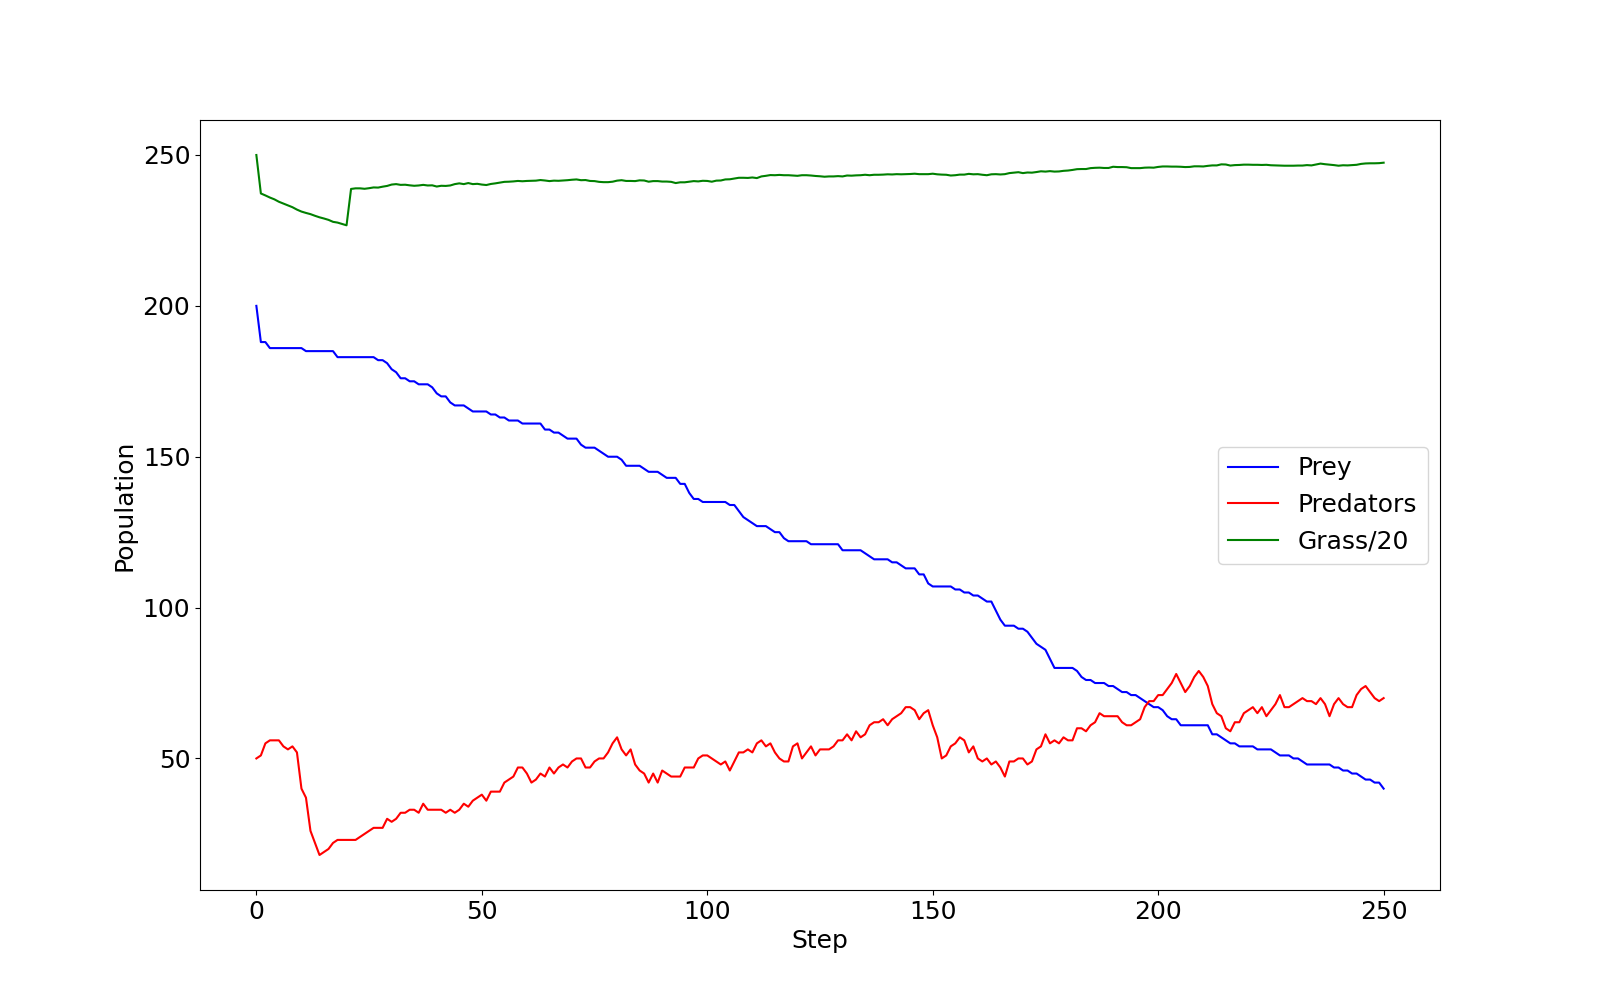
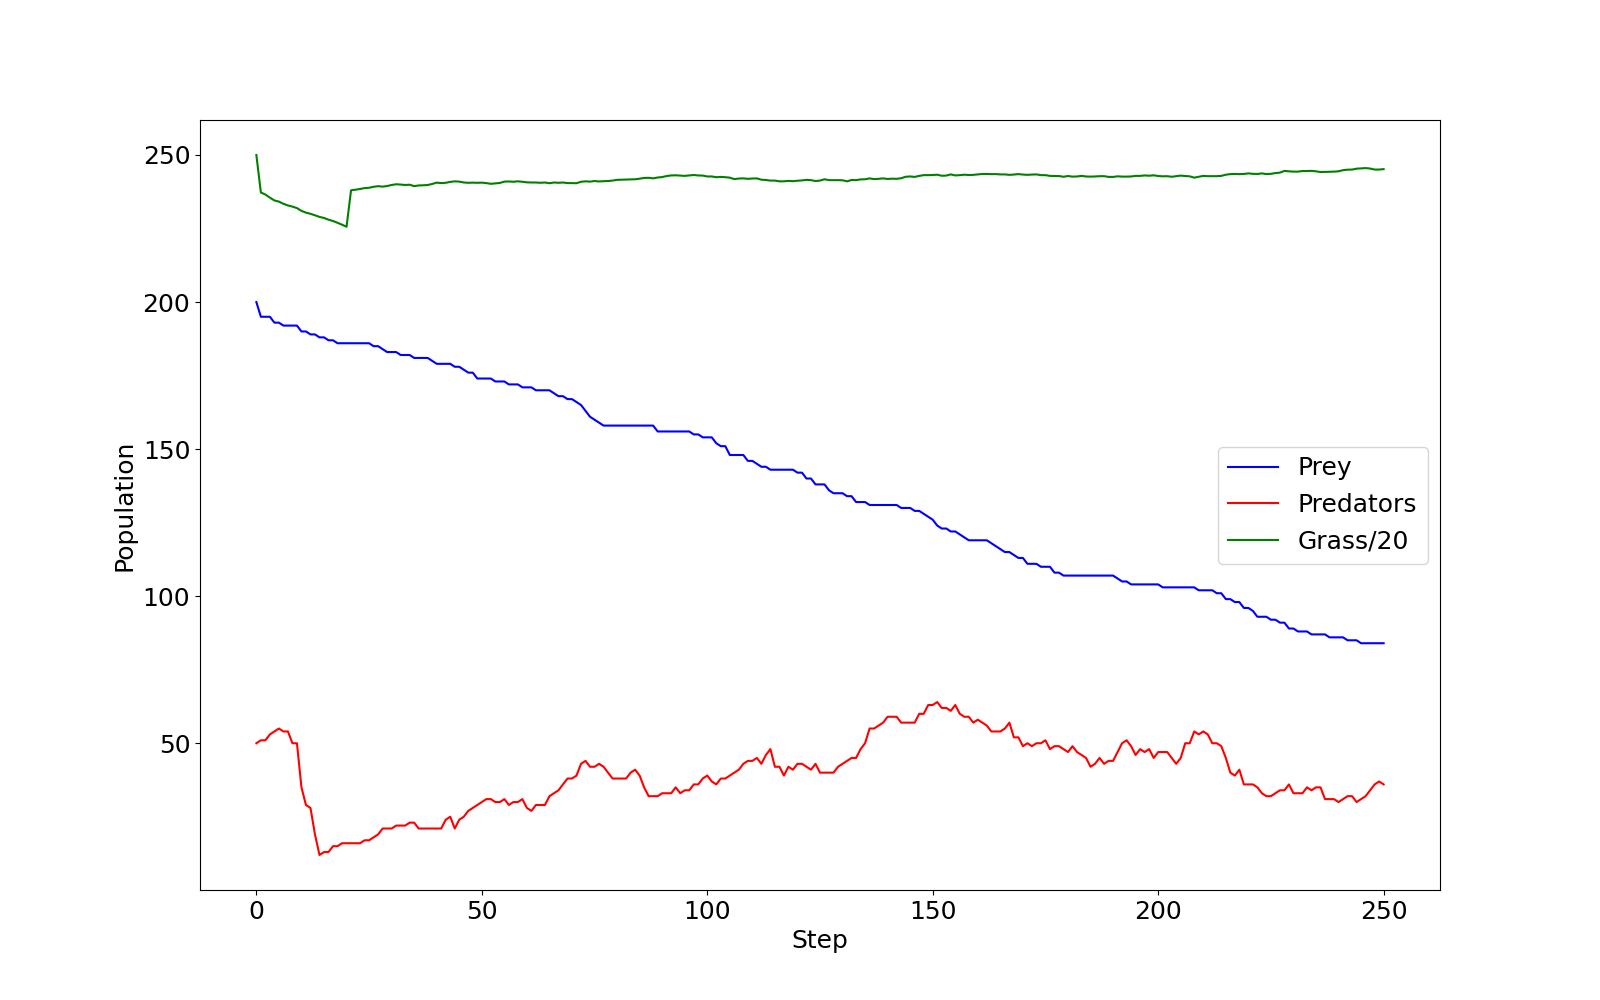
Add a fixed random seed to PredPrey to avoid division by zero.

diff --git a/episodes/files/pred-prey/predprey.py b/episodes/files/pred-prey/predprey.py
@@ -403,7 +403,8 @@ class Model:
         plt.legend()
         plt.savefig('predprey_out.png')
     
-    def run(self):
+    def run(self, random_seed=12):
+        np.random.seed(random_seed)
         # init
         self._init_population()
         self._init_log()
